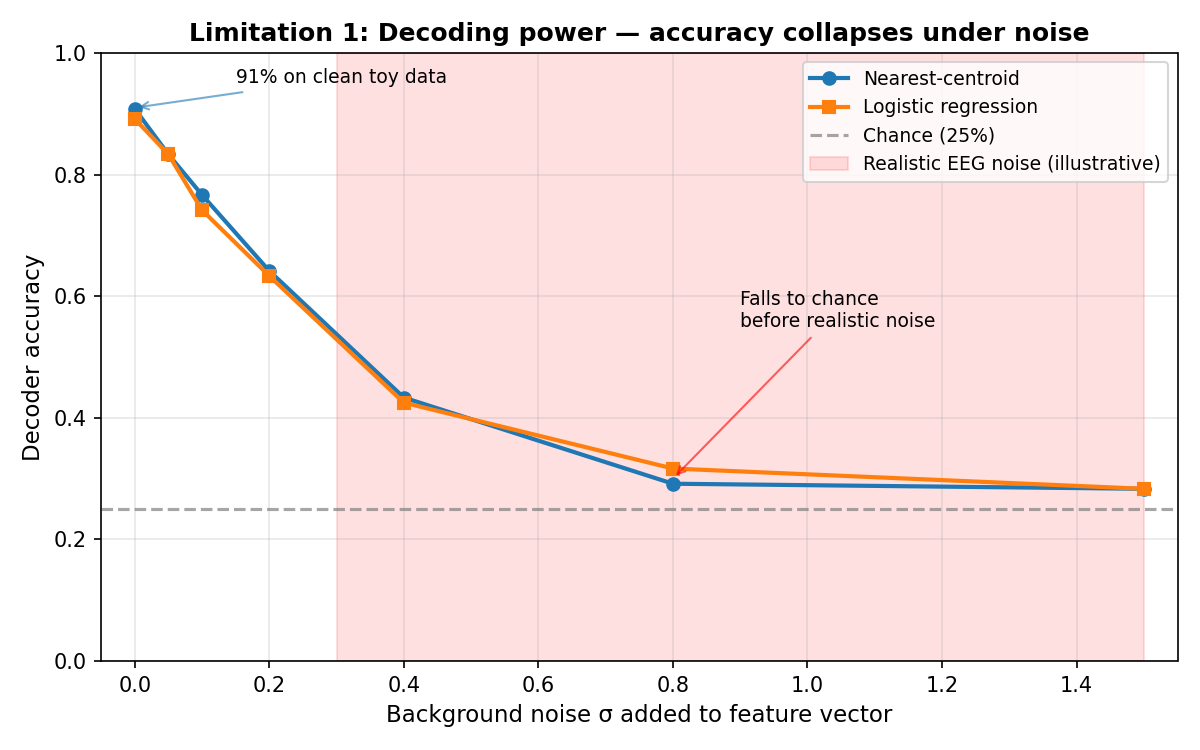
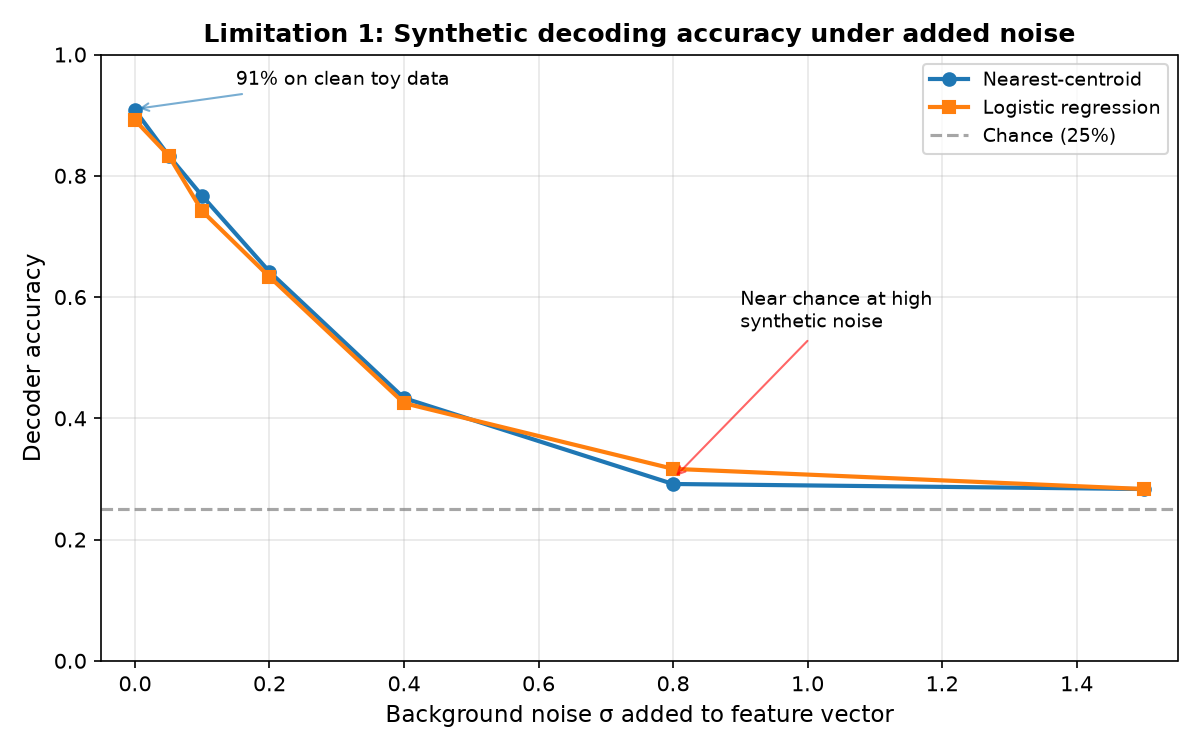
Qualify synthetic decoding limits and update figures

diff --git a/index.html b/index.html
@@ -200,7 +200,7 @@
             <div class="lab-scale" aria-hidden="true"><span>clean</span><span>very noisy</span></div>
           </div>
           <p class="lab-readout" id="noiseReadout" aria-live="polite">At σ = 0.40, nearest-centroid is at 43.3% and logistic regression at 42.5% (chance is 25%).</p>
-          <p class="lab-takeaway"><strong>Takeaway:</strong> both collapse toward chance long before realistic EEG noise, and the stronger model is no better. The bottleneck is the feature space, not the classifier.</p>
+          <p class="lab-takeaway"><strong>Takeaway:</strong> in this synthetic experiment, both classifiers approach the 25% chance level as added noise increases and perform similarly across the tested levels. These noise units are not calibrated to EEG.</p>
           <p class="lab-links">
             <a href="https://github.com/rola2005-klc/brain-state-circuit-replay/blob/main/scripts/evaluate_decoder_noise.py">Method (Python)</a>
             <a href="data/decoder_noise_sweep.csv">Raw data (CSV)</a>

diff --git a/scripts/plot_limitations_figures.py b/scripts/plot_limitations_figures.py
@@ -58,12 +58,9 @@ def plot_decoder_noise_curve(out_path: Path, ax=None) -> None:
     ax.plot(sigmas, lr, marker="s", linewidth=2, label="Logistic regression", color="#ff7f0e")
     ax.axhline(0.25, linestyle="--", color="gray", alpha=0.7, label="Chance (25%)")
 
-    # Shade "realistic noise" region — illustrative, not measured.
-    ax.axvspan(0.3, 1.5, alpha=0.12, color="red", label="Realistic EEG noise (illustrative)")
-
     ax.set_xlabel("Background noise σ added to feature vector", fontsize=11)
     ax.set_ylabel("Decoder accuracy", fontsize=11)
-    ax.set_title("Limitation 1: Decoding power — accuracy collapses under noise",
+    ax.set_title("Limitation 1: Synthetic decoding accuracy under added noise",
                  fontsize=12, fontweight="bold")
     ax.set_ylim(0, 1.0)
     ax.set_xlim(-0.05, 1.55)
@@ -79,7 +76,7 @@ def plot_decoder_noise_curve(out_path: Path, ax=None) -> None:
         arrowprops=dict(arrowstyle="->", color="#1f77b4", alpha=0.6),
     )
     ax.annotate(
-        "Falls to chance\nbefore realistic noise",
+        "Near chance at high\nsynthetic noise",
         xy=(0.8, 0.30),
         xytext=(0.9, 0.55),
         fontsize=9,
@@ -227,7 +224,7 @@ def plot_summary(out_path: Path) -> None:
             "title": "Many electrodes, distributed engram",
             "k": 64, "r": 0.04,
             "distributed": True,
-            "subtitle": "the realistic case — needs per-subject targeting",
+            "subtitle": "distributed toy case — target layout matters",
         },
     ]
     for ax, scenario in zip(ax_panels, summary_scenarios):

diff --git a/docs/limitations.md b/docs/limitations.md
@@ -36,10 +36,11 @@ Representative numbers from a default run (4 classes, chance = 25%):
 | 0.80   |           29.17% |      31.67%  |
 | 1.50   |           28.33% |      28.33%  |
 
-Both models collapse to near-chance well before the noise level approaches
-what real EEG/iEEG recordings present. The stronger model is not
-substantially better — the limitation is the feature space, not the
-classifier.
+In this synthetic experiment, both classifiers approach the 25% chance level
+as added noise increases and perform similarly across the tested levels.
+These noise units are not calibrated to EEG or iEEG, so this sweep does not
+establish a real-world noise threshold or isolate the feature space as the
+limiting factor.
 
 **What's still missing.** Real validation would require, at minimum:
 - A real neural dataset (EEG, iEEG, or fMRI) with subjects entering target

diff --git a/README.md b/README.md
@@ -167,7 +167,8 @@ the repo:
    background noise and other emotional states. A noise-robustness sweep
    ([`scripts/evaluate_decoder_noise.py`](scripts/evaluate_decoder_noise.py))
    shows accuracy decays from ~91% on clean synthetic data to near chance
-   well before realistic noise levels.
+   at the highest tested synthetic noise level. The noise units are not
+   calibrated to EEG or other real recordings.
 2. **Stimulation coverage and precision.** Where memory lives and whether a
    finite electrode array can evoke it without recruiting unrelated neurons.
    A toy 2-D simulation
